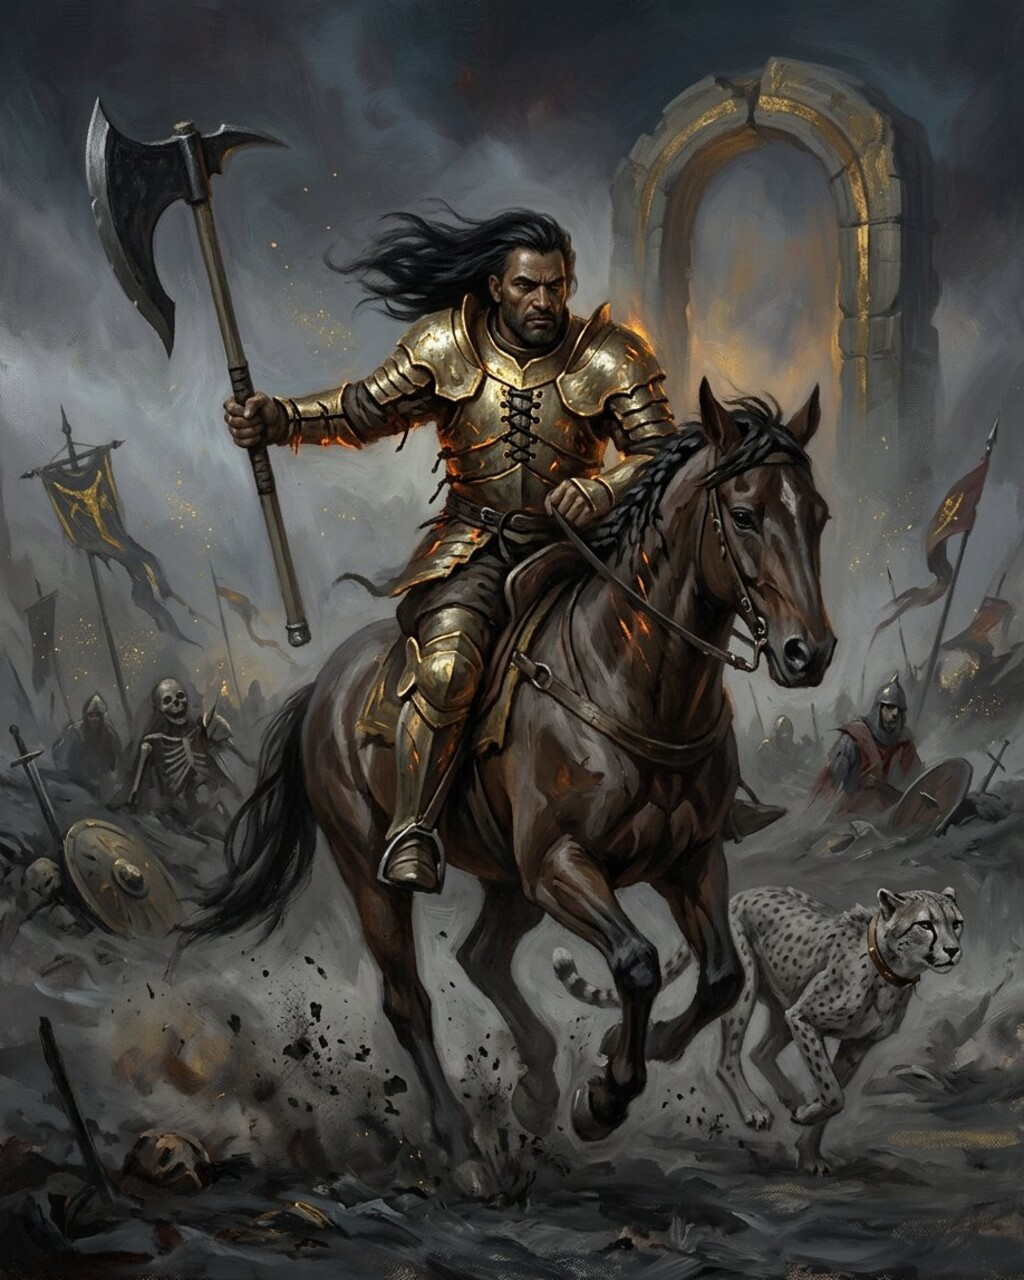
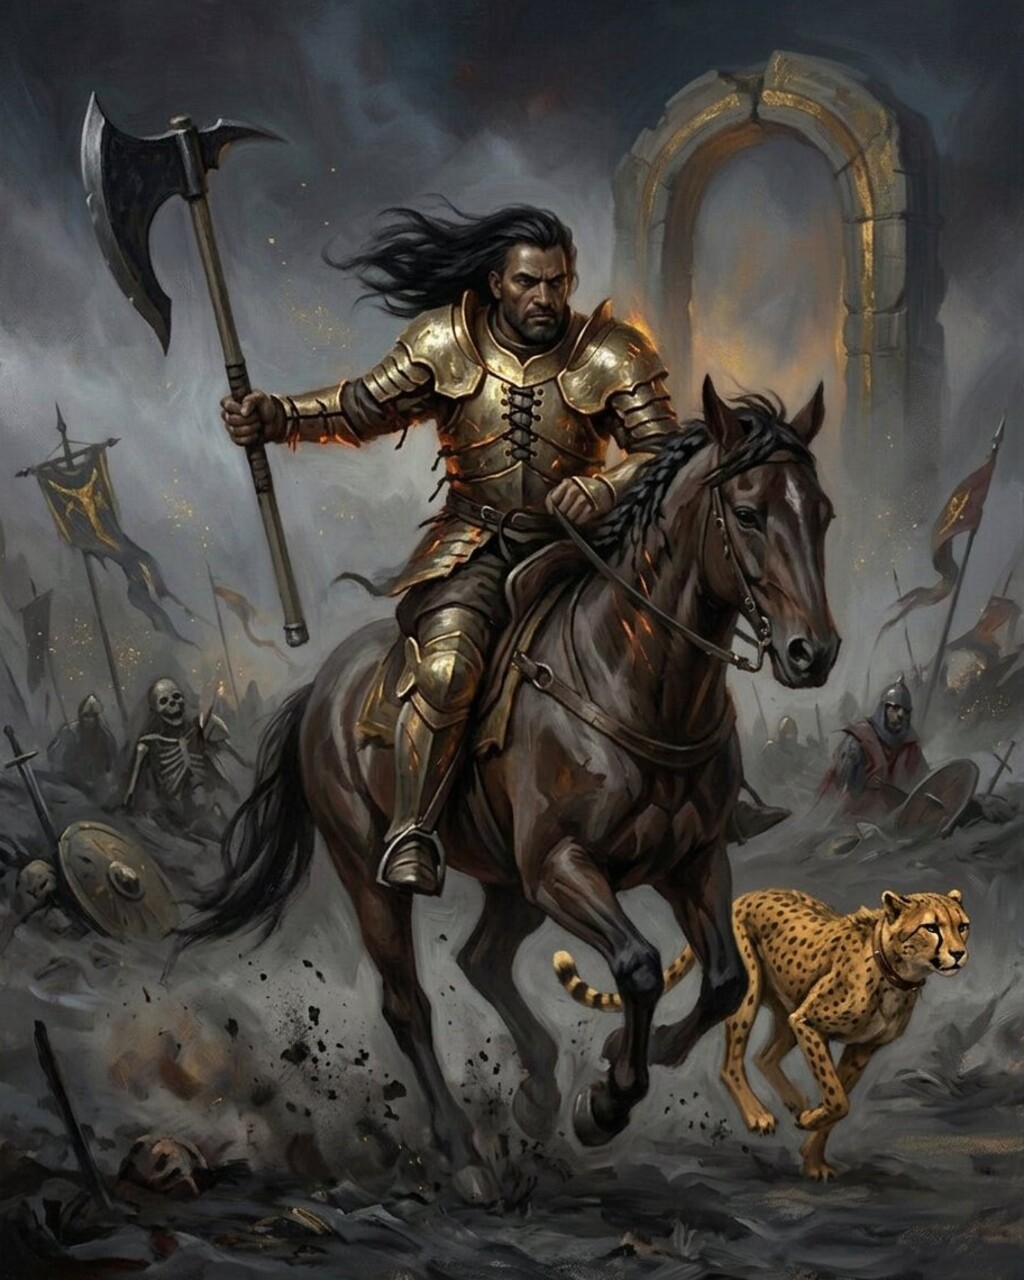
Sablier : le guépard d'Aksel reprend son pelage fauve

diff --git a/src/games/RPG-CARD-ART.md b/src/games/RPG-CARD-ART.md
@@ -1219,8 +1219,11 @@ brisés à demi enfouis au premier plan.
   long fût de frêne, poignée de cuir — levée, prête à tomber.
 - **La monture** est un cheval barb obscur et nerveux, crinière tressée, sueur et
   poussière sur le flanc, haleine fumante dans l'air froid.
-- **Le guépard** court à sa droite, pelage gris de cendre, côtes un peu visibles,
-  collier de cuir, une seule queue continue — la bête du roi, jamais un trophée.
+- **Le guépard** court à sa droite, **entièrement coloré** : dos et flancs d'un
+  fauve doré chaud, poitrail, ventre et museau crème, taches noires sur tout le
+  corps, la larme noire de l'œil à la gueule, yeux ambre, queue annelée à pointe
+  crème, collier de cuir. C'est **le seul animal chaud et saturé** de l'image, et
+  il doit le rester : le champ de bataille est de cendre, la bête est vivante.
 - **Le fond est éclairé de loin en loin par la même lumière** : l'arche brisée
   garde des traces de dorure sur la pierre et son ouverture luit d'un ambre
   chaud, derrière les bannières et les squelettes à demi enfouis.

diff --git a/docs/rpg/05-concept-cartes.md b/docs/rpg/05-concept-cartes.md
@@ -309,7 +309,8 @@ sujet de polémique : c'est le roi qui défend sa terre, rien de plus.
   de bataille de cendre, **armure de plaque dorée complète et rongée**, **tête
   nue — aucun heaume**, visage d'un homme d'environ **trente-cinq ans** aux longs
   cheveux noirs, l'or qui **luit faiblement de l'intérieur**, une **grande hache
-  de fer noirci** levée, le **guépard** gris de cendre qui court à sa droite, et
+  de fer noirci** levée, le **guépard** au pelage fauve doré, taches noires et
+  larme de l'œil, qui court à sa droite, et
   des **accents dorés dans le fond** (l'arche brisée, les bannières, les
   boucliers coulés, la poussière) sans jamais dépasser l'éclat de l'armure
   (direction artistique `RPG-CARD-ART.md`). Sa révision de cache est
